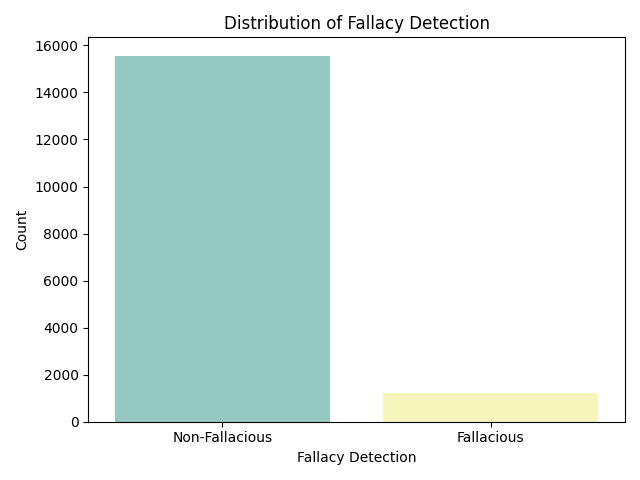
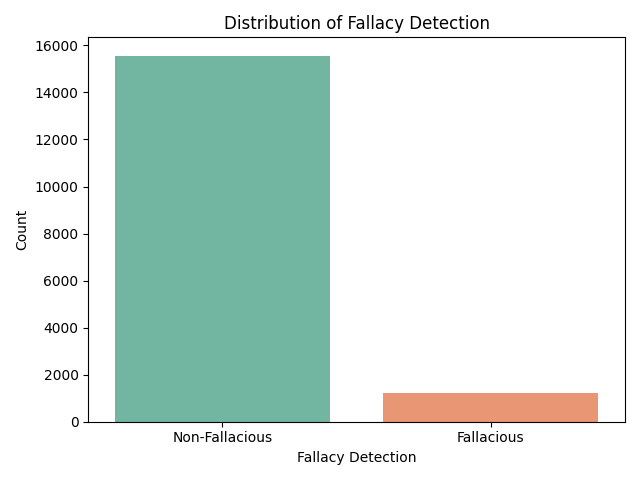
switched up colors :3

Changed region(s): [[0.1562, 0.0938, 0.5312, 0.9062], [0.5938, 0.8125, 0.9375, 0.9062]]

diff --git a/data/MM_USED_fallacy/data_analysis.py b/data/MM_USED_fallacy/data_analysis.py
@@ -9,7 +9,7 @@ os.makedirs(SAVE_DIR, exist_ok=True)
 def plot_fallacy_detection_distribution(df, augmented=False):
     suffix = "- augmented" if augmented else ""
     
-    sns.countplot(x='fallacy_detection', hue='fallacy_detection', data=df, palette='Set3', legend=False)
+    sns.countplot(x='fallacy_detection', hue='fallacy_detection', data=df, palette='Set2', legend=False)
     plt.title(f'Distribution of Fallacy Detection{suffix}')
     plt.xlabel('Fallacy Detection')
     plt.ylabel('Count')
@@ -39,7 +39,7 @@ def plot_category_distribution(df, augmented=False):
     sns.countplot(
         x='category',
         data=filtered_df,
-        palette='Set3',
+        palette='Set2',
         order=order,
         legend=False
     )
@@ -69,7 +69,7 @@ def plot_class_distribution(df, augmented=False):
     # Filter dataframe to only rows where fallacy_detection == 1
     filtered_df = df[df['fallacy_detection'] == 1]
 
-    sns.countplot(x='class', data=filtered_df, palette='Set3', legend=False)
+    sns.countplot(x='class', data=filtered_df, palette='Set2', legend=False)
 
     plt.title(f'Distribution of Fallacy Classes {suffix}')
     plt.xlabel('Fallacy Class')
